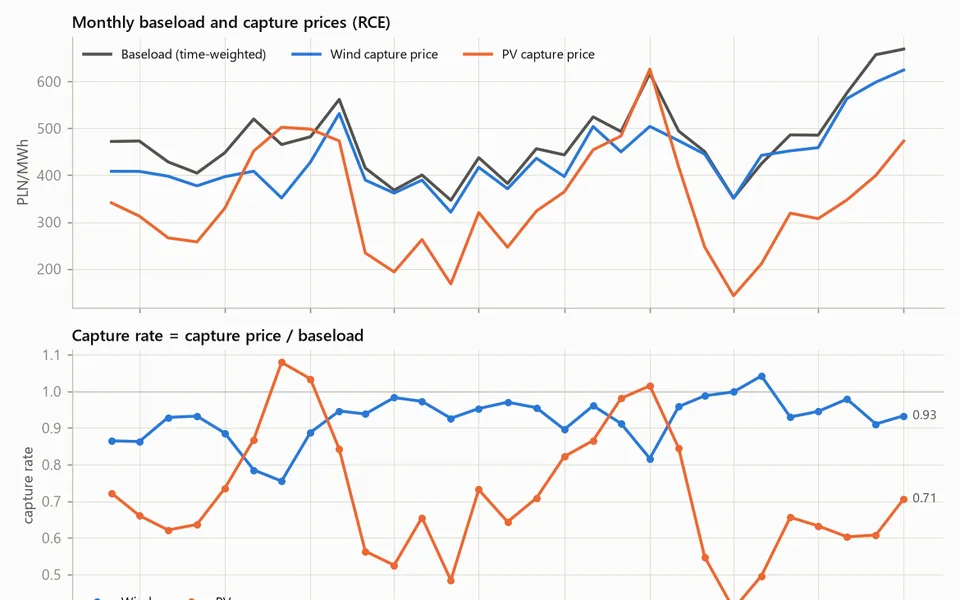
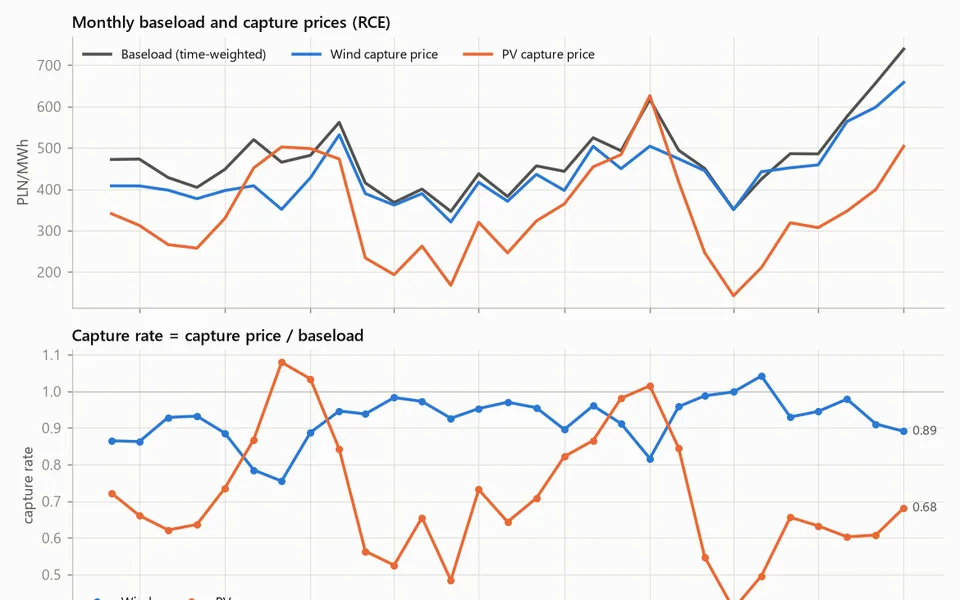
Add a corrections log; update four cards after the second review

diff --git a/corrections.html b/corrections.html
@@ -1,0 +1,143 @@
+<!doctype html>
+<html lang="en">
+<head>
+<meta charset="utf-8">
+<meta name="viewport" content="width=device-width, initial-scale=1">
+<title>Corrections | Konrad Waleszczyński</title>
+<meta name="description" content="Corrections to published results in this portfolio: what was claimed, what is claimed now and why.">
+<meta name="color-scheme" content="light dark">
+<style>
+:root {
+  --bg: #f6f7f9; --card: #ffffff; --text: #151a22; --muted: #5a6474; --line: #e2e6ec; --chip: #edf0f4;
+  --hl-bg: #fff8eb; --hl-line: #e8a33a; --pv: #c97a06; --wind: #0e7490; --storage: #6d43c9; --ops: #475569; --bio: #4d7c0f;
+  --accent: #0e7490; --shadow: 0 1px 2px rgba(16,24,40,.06), 0 4px 16px rgba(16,24,40,.06);
+}
+@media (prefers-color-scheme: dark) {
+  :root {
+    --bg: #0d1117; --card: #151b24; --text: #e6eaf0; --muted: #98a2b3; --line: #252e3a; --chip: #1d2530;
+    --hl-bg: #231d12; --hl-line: #d4912c; --pv: #f0a83a; --wind: #38bdd8; --storage: #a78bfa; --ops: #94a3b8; --bio: #9ccc65;
+    --accent: #38bdd8; --shadow: none;
+  }
+}
+* { box-sizing: border-box; }
+html { -webkit-text-size-adjust: 100%; }
+body { margin: 0; background: var(--bg); color: var(--text);
+  font: 16px/1.55 system-ui, -apple-system, "Segoe UI", Roboto, "Helvetica Neue", Arial, sans-serif; }
+a { color: inherit; }
+.wrap { max-width: 1180px; margin: 0 auto; padding: 0 20px; }
+header.hero { padding: 64px 0 32px; }
+.hero .name { font-size: 15px; letter-spacing: .08em; text-transform: uppercase; color: var(--muted); margin: 0 0 10px; }
+.hero h1 { font-size: clamp(30px, 5vw, 48px); line-height: 1.1; margin: 0 0 16px; letter-spacing: -.02em; }
+.hero h1 span { background: linear-gradient(90deg, var(--pv), var(--wind)); -webkit-background-clip: text;
+  background-clip: text; color: transparent; }
+.hero p.intro { max-width: 720px; font-size: 18px; color: var(--muted); margin: 0 0 24px; }
+.stats { display: flex; flex-wrap: wrap; gap: 12px 32px; margin: 0 0 28px; padding: 0; list-style: none; }
+.stats b { display: block; font-size: 28px; line-height: 1.1; }
+.stats span { font-size: 14px; color: var(--muted); }
+.actions { display: flex; flex-wrap: wrap; gap: 10px; }
+.btn { display: inline-block; padding: 7px 14px; border: 1px solid var(--line); border-radius: 8px; background: var(--card);
+  text-decoration: none; font-size: 14px; font-weight: 600; }
+.btn:hover { border-color: var(--accent); }
+.btn.primary { background: var(--accent); border-color: var(--accent); color: #fff; }
+@media (prefers-color-scheme: dark) { .btn.primary { color: #06141a; } }
+h2 { font-size: 22px; margin: 40px 0 16px; letter-spacing: -.01em; }
+.lives { display: grid; grid-template-columns: repeat(auto-fit, minmax(240px, 1fr)); gap: 14px; }
+.live { display: flex; gap: 12px; align-items: center; padding: 10px; background: var(--card); border: 1px solid var(--line);
+  border-radius: 12px; text-decoration: none; font-weight: 600; box-shadow: var(--shadow); }
+.live:hover { border-color: var(--accent); }
+.live img { width: 96px; aspect-ratio: 16/10; object-fit: cover; border-radius: 6px; border: 1px solid var(--line); }
+.filters { display: flex; flex-wrap: wrap; gap: 8px; margin: 0 0 18px; }
+.chip { font: inherit; font-size: 14px; padding: 6px 14px; border-radius: 999px; border: 1px solid var(--line);
+  background: var(--chip); color: var(--text); cursor: pointer; }
+.chip.active { background: var(--text); color: var(--bg); border-color: var(--text); }
+.grid { display: grid; grid-template-columns: repeat(auto-fill, minmax(330px, 1fr)); gap: 20px; }
+.card { display: flex; flex-direction: column; background: var(--card); border: 1px solid var(--line); border-radius: 14px;
+  overflow: hidden; box-shadow: var(--shadow); }
+.card[hidden] { display: none; }
+.thumb { display: block; border-bottom: 1px solid var(--line); background: #fff; }
+.thumb img { display: block; width: 100%; height: auto; aspect-ratio: 16/10; object-fit: cover; }
+.body { display: flex; flex-direction: column; flex: 1; padding: 16px 18px 18px; }
+.meta { display: flex; gap: 8px; align-items: center; font-size: 13px; margin-bottom: 6px; }
+.group { font-weight: 600; }
+.group::before { content: ""; display: inline-block; width: 8px; height: 8px; border-radius: 50%; margin-right: 6px;
+  background: currentColor; vertical-align: 1px; }
+.g-pv { color: var(--pv); } .g-wind { color: var(--wind); } .g-storage { color: var(--storage); } .g-ops { color: var(--ops); } .g-biogas { color: var(--bio); }
+.badge { font-size: 12px; font-weight: 600; padding: 1px 8px; border-radius: 999px; border: 1px solid var(--hl-line);
+  color: var(--hl-line); }
+.card h3 { font-size: 19px; line-height: 1.3; margin: 0 0 8px; }
+.card h3 a { text-decoration: none; }
+.card h3 a:hover { text-decoration: underline; }
+.summary { margin: 0 0 12px; color: var(--muted); font-size: 15px; }
+.highlight { margin: 0 0 14px; padding: 10px 12px; background: var(--hl-bg); border-left: 3px solid var(--hl-line);
+  border-radius: 0 8px 8px 0; font-size: 15px; }
+.tags { display: flex; flex-wrap: wrap; gap: 6px; list-style: none; padding: 0; margin: 0 0 16px; }
+.tags li { font-size: 12px; padding: 2px 8px; border-radius: 6px; background: var(--chip); color: var(--muted); }
+.links { display: flex; flex-wrap: wrap; gap: 8px; margin-top: auto; }
+footer { margin: 56px 0 0; padding: 28px 0 48px; border-top: 1px solid var(--line); color: var(--muted); font-size: 14px; }
+footer dl { display: grid; grid-template-columns: max-content 1fr; gap: 6px 16px; margin: 0 0 16px; }
+footer dt { font-weight: 600; color: var(--text); }
+footer dd { margin: 0; }
+.lead { max-width: 760px; color: var(--muted); margin: -4px 0 18px; }
+.pick .owner { margin: 0 0 16px; font-size: 15px; }
+.case { max-width: 800px; }
+.crumb { margin: 28px 0 0; font-size: 14px; }
+.crumb a { color: var(--muted); text-decoration: none; }
+.crumb a:hover { color: var(--accent); }
+.case header { padding: 28px 0 4px; }
+.kicker { display: flex; gap: 8px; align-items: center; font-size: 13px; margin: 0 0 10px; }
+.case h1 { font-size: clamp(28px, 4.4vw, 40px); line-height: 1.15; margin: 0 0 14px; letter-spacing: -.02em; }
+.dek { font-size: 18px; color: var(--muted); margin: 0 0 24px; }
+.kpis { display: grid; grid-template-columns: repeat(auto-fit, minmax(200px, 1fr)); gap: 12px; list-style: none;
+  padding: 0; margin: 0 0 28px; }
+.kpis li { padding: 14px 16px; background: var(--card); border: 1px solid var(--line); border-radius: 12px; box-shadow: var(--shadow); }
+.kpis b { display: block; font-size: 24px; line-height: 1.2; margin-bottom: 4px; }
+.kpis span { font-size: 14px; color: var(--muted); }
+figure { margin: 0; }
+figure img { display: block; width: 100%; height: auto; border: 1px solid var(--line); border-radius: 10px; background: #fff; }
+figcaption { margin-top: 8px; font-size: 14px; color: var(--muted); }
+.case h2 { font-size: 21px; margin: 36px 0 12px; }
+.case section ul { margin: 0; padding-left: 20px; }
+.case section li { margin: 0 0 10px; }
+.case section > p { margin: 0 0 12px; }
+.tablewrap { overflow-x: auto; margin: 18px 0 0; }
+table { width: 100%; border-collapse: collapse; font-size: 14.5px; background: var(--card); }
+caption { text-align: left; font-weight: 600; padding: 0 0 8px; }
+th, td { padding: 8px 10px; border-bottom: 1px solid var(--line); text-align: left; vertical-align: top; }
+th { color: var(--muted); font-weight: 600; }
+td + td, th + th { text-align: right; }
+td + td { white-space: nowrap; }
+.note { margin: 8px 0 0; font-size: 14px; color: var(--muted); }
+.case .links { margin: 0 0 16px; }
+@media (max-width: 560px) {
+  .wrap { padding: 0 16px; }
+  header.hero { padding-top: 40px; }
+  .grid { grid-template-columns: 1fr; }
+  footer dl { grid-template-columns: 1fr; }
+  footer dd { margin-bottom: 8px; }
+}
+
+.corr { border-top: 1px solid var(--line); padding: 6px 0 2px; }
+.corr h2 { font-size: 18px; margin: 14px 0 6px; display: flex; flex-wrap: wrap; gap: 4px 12px; align-items: baseline; }
+.corr h2 a { color: inherit; text-decoration: none; }
+.corr h2 a:hover { color: var(--accent); }
+.corr .when { font-size: 13px; font-weight: 400; color: var(--muted); }
+.corr dl { display: grid; grid-template-columns: 52px 1fr; gap: 6px 12px; margin: 0 0 14px; }
+.corr dt { color: var(--muted); font-size: 13px; padding-top: 3px; }
+.corr dd { margin: 0; }
+@media (max-width: 520px) { .corr dl { grid-template-columns: 1fr; gap: 0; } .corr dd { margin: 0 0 8px; } }
+</style>
+</head>
+<body>
+<div class="wrap case">
+  <p class="crumb"><a href="./">&#8592; Konrad Waleszczyński: all projects</a></p>
+  <header>
+    <h1>Corrections</h1>
+    <p class="dek">Every project here is re-read from time to time by an independent reviewer who gets the code and the data, not the conclusions. When a headline number or a conclusion does not hold, it is corrected in the repository and listed below: what was claimed, what is claimed now and why. Results that only reproduced are not listed.</p>
+  </header>
+  <section class="corr"><h2><a href="https://github.com/kwwaleszczynski-del/wind-om-reliability">wind-om-reliability</a><span class="when">15 Nov 2026</span></h2><dl><dt>Was</dt><dd>Crow-AMSAA separates an improving fleet (Kelmarsh, beta 0.82) from a deteriorating one (Penmanshiel, beta 1.12); Hill of Towie improves to 4-5 failures per turbine-year.</dd><dt>Now</dt><dd>Kelmarsh still improves (beta 0.81, 0.76-0.91). Penmanshiel shows no clear trend (0.95, 0.89-1.01). The Hill of Towie trend is not assessed.</dd><dt>Why</dt><dd>The Penmanshiel figure came from repeating alarms on three turbines and an interval that assumed independent events; the trend is now fitted on repeat chains with a turbine bootstrap. The Hill of Towie code dictionary was built from one year, so other years were not comparable. Failure counts are now published with their sensitivity to the counting rule (Kelmarsh 3.6-8.2, Penmanshiel 10.8-19.3 per turbine-year).</dd></dl></section><section class="corr"><h2><a href="https://github.com/kwwaleszczynski-del/pl-bess-paper-trading">pl-bess-paper-trading</a><span class="when">15 Nov 2026</span></h2><dl><dt>Was</dt><dd>A battery that trades on paper every day; scheduled runs start 30-60 minutes late and one day has no plan.</dd><dt>Now</dt><dd>Of the first 20 live days 6 have a plan and 14 do not; the model earned 11.7 % of perfect foresight over all days and 52 % on the days it traded. The live record is too short for conclusions.</dd><dt>Why</dt><dd>GitHub started the scheduled runs 6-10 hours late, after the market gate, so most mornings made no plan; the plans that exist were started by an external trigger. The ledger itself was checked and is append-only: no plan was made after prices were known.</dd></dl></section><section class="corr"><h2><a href="https://github.com/kwwaleszczynski-del/pl-capture-price">pl-capture-price</a><span class="when">15 Nov 2026</span></h2><dl><dt>Was</dt><dd>Every 10 pp of PV share costs PV about 0.20 of value factor; a PV build-out scenario of 0.58 (+20 %) and 0.49 (+50 %), backed by a hindcast.</dd><dt>Now</dt><dd>The within-month slope is -1.69 with a standard error of 1.12, not significant; the scenario gives 0.59 (0.52-0.66) and 0.51 (0.35-0.68). No simple model beats repeating last year&#x27;s value (MAE 0.080 against 0.081). RCE is described as PSE&#x27;s reference price, not the SDAC price.</dd><dt>Why</dt><dd>The pooled slope was mostly seasonal, and the hindcast had been fitted with months after the target. The 2025 capture rates (PV 0.64, wind 0.94) did not change.</dd></dl></section><section class="corr"><h2><a href="https://github.com/kwwaleszczynski-del/pl-res-curtailment">pl-res-curtailment</a><span class="when">15 Nov 2026</span></h2><dl><dt>Was</dt><dd>Announced PV curtailment before the reports API: 520 GWh, covering 91 % of the regulator&#x27;s figure for 2024.</dd><dt>Now</dt><dd>517.3 GWh, equal to 90 % of the regulator&#x27;s figure; the announcement volumes are stated as announced orders, 63 % of them published before the hour began.</dd><dt>Why</dt><dd>24 September 2024 was counted in both sources, and ordered power is not a subset of the energy the regulator reports. Annual totals from the reports API did not change.</dd></dl></section><section class="corr"><h2><a href="https://github.com/kwwaleszczynski-del/pse-opendata">pse-opendata</a><span class="when">15 Nov 2026</span></h2><dl><dt>Was</dt><dd>Cross-border flow report documented as one signed row per border.</dd><dt>Now</dt><dd>Two directional rows per border (import and export components), with a helper that nets them; an optional check re-downloads a cached month that PSE republished later (version 0.2.1).</dd><dt>Why</dt><dd>Reading one row as the net flow gave +85 MW instead of -613 MW for the Czech border in one test week. A month cached before a late republication was served as final.</dd></dl></section><section class="corr"><h2><a href="https://github.com/kwwaleszczynski-del/res-asset-kpi">res-asset-kpi</a><span class="when">12 Nov 2026</span></h2><dl><dt>Was</dt><dd>KPI functions accepted records with gaps and returned a number.</dd><dt>Now</dt><dd>A window with missing meter data has no round-trip efficiency instead of a low one, missing expected power gives no energy availability instead of zero loss, partial sums are not reported as full intervals, and constants standing in for missing information raise a warning (versions 0.1.1 and 0.1.2).</dd><dt>Why</dt><dd>Missing data were silently counted as zeros: one missing discharge hour moved a daily RTE from 0.64 to 0.48 with the result still marked valid.</dd></dl></section><section class="corr"><h2><a href="https://github.com/kwwaleszczynski-del/wind-downtime-availability">wind-downtime-availability</a><span class="when">12 Nov 2026</span></h2><dl><dt>Was</dt><dd>The category a stop is booked under moves warranty availability more than detecting the stop does: 97.9 % becomes 93.5 %.</dd><dt>Now</dt><dd>One mis-booked farm-wide stop can outweigh all detection error: 4.1 of those 4.4 pp are a single 15-day park-controller stop. Without it the scenario costs 0.3 pp, about the size of the detection error.</dd><dt>Why</dt><dd>The headline rested on one event of one farm-year. Cause classification is also reported by stop time now (rules right for 21 % and 68 %), and at one farm it makes availability worse than no classification.</dd></dl></section><section class="corr"><h2><a href="https://github.com/kwwaleszczynski-del/bess-ops-warranty">bess-ops-warranty</a><span class="when">12 Nov 2026</span></h2><dl><dt>Was</dt><dd>Batteries are technically available (95.8 %) but commercially much less is offered (78.1 %).</dd><dt>Now</dt><dd>For the median battery only 3.2 % of the registered power is declared and not offered; five of 38 batteries hold back a third or more. The 95.8 % is an upper bound (capability within 24 hours&#x27; notice).</dd><dt>Why</dt><dd>The gap counted every interval in which an empty battery offered less; with more than 10 % of the energy stored, offered availability is 94.1 %.</dd></dl></section><section class="corr"><h2><a href="https://github.com/kwwaleszczynski-del/pl-forecast-bench">pl-forecast-bench</a><span class="when">12 Nov 2026</span></h2><dl><dt>Was</dt><dd>Intraday models beat the PSE plan by 20-26 %.</dd><dt>Now</dt><dd>Intraday models beat PSE&#x27;s day-ahead plan by 10-26 %, and by 10-21 % against the plan rescaled for its bias; day-ahead intervals are wider than published.</dd><dt>Why</dt><dd>Part of the plan&#x27;s error is curtailment and a systematic over-forecast (wind +225 MW on average, +1,300 MW at prices at or below zero), and the bootstrap had treated days as independent.</dd></dl></section><section class="corr"><h2><a href="https://github.com/kwwaleszczynski-del/wind-les-gpu">wind-les-gpu</a><span class="when">12 Nov 2026</span></h2><dl><dt>Was</dt><dd>The LES reproduces the measured farm wake loss (9.8 % against 9.2 %) and the deep-wake sectors, with the lowest error of four models.</dd><dt>Now</dt><dd>The pooled loss matches as closely as the Gaussian model; split by wind speed and turbulence, part of the match is averaging (3 pp low in the most frequent sector at 5-8 m/s, high at 8-10 m/s). The ranking claim is dropped.</dd><dt>Why</dt><dd>One speed ratio was applied to all 5-10 m/s records, and the 0.6 pp gap sits inside the uncertainty of how the measured loss is defined.</dd></dl></section><section class="corr"><h2><a href="https://github.com/kwwaleszczynski-del/pv-budget-bridge">pv-budget-bridge</a><span class="when">12 Nov 2026</span></h2><dl><dt>Was</dt><dd>Outage and curtailment losses come back within 0.5 % of a known truth; PR 0.63-0.67 on the real rooftops.</dd><dt>Now</dt><dd>A 3-day outage injected into real and synthetic plants comes back within 1 %, a curtailment that binds within 3-7 %; the 0.5 % on the synthetic plant is labelled a best case. PR 0.65-0.68 on intervals with complete data.</dd><dt>Why</dt><dd>The synthetic truth followed the estimator&#x27;s own bookkeeping, an outage under a partial set-point was over-charged to availability, and the summary PR counted data gaps as zero production.</dd></dl></section><section class="corr"><h2><a href="https://github.com/kwwaleszczynski-del/scada-fault-bench">scada-fault-bench</a><span class="when">12 Nov 2026</span></h2><dl><dt>Was</dt><dd>Best F1 0.40 on wind and 0.53 on PV; recall 0.08-0.75 on 12 real faults.</dd><dt>Now</dt><dd>Every method detects more than chance on injected faults, but much of the raw recall is coincidence (a z-score reaches 0.91 on wind with 0.68 by chance). Best excess recall 0.42 on wind and 0.37 on PV; on the 12 real faults no method is distinguishable from chance.</dd><dt>Why</dt><dd>An alarm anywhere in a one-to-three-week window counted as a detection. Detection now requires an alarm on affected rows and is reported next to a placebo.</dd></dl></section><section class="corr"><h2><a href="https://github.com/kwwaleszczynski-del/bess-reporting-kit">bess-reporting-kit</a><span class="when">12 Nov 2026</span></h2><dl><dt>Was</dt><dd>A 200 MW battery earned 122 % of its as-of benchmark; at fleet scale the revenue stack stays above day-ahead arbitrage.</dd><dt>Now</dt><dd>The battery earned 99 % of a benchmark that has its own limits; at 2,000 MW the stack keeps 10-21 % of the lone battery&#x27;s margin and crosses day-ahead arbitrage on the lower bound.</dd><dt>Why</dt><dd>The benchmark battery was smaller than the real one, and the fleet model was not a fixed point, so it is now given as two bounds.</dd></dl></section><section class="corr"><h2><a href="https://github.com/kwwaleszczynski-del/scada-schema">scada-schema</a><span class="when">12 Nov 2026</span></h2><dl><dt>Was</dt><dd>Loaders wrote the CARE benchmark&#x27;s power in kW and found the PVDAQ unit switch only when it fell inside the loaded period.</dd><dt>Now</dt><dd>CARE power is stored as a scaled, dimensionless signal; the PVDAQ unit is detected from the power level; La Haute Borne&#x27;s clock is reconstructed and 96 ambiguous rows are dropped (version 0.1.1).</dd><dt>Why</dt><dd>CARE power is normalised by the source, and a file that starts after the switch was read 100 times too high.</dd></dl></section>
+  <footer>
+    <p>14 corrections. Updated 16 Nov 2026.</p>
+  </footer>
+</div>
+</body>
+</html>

diff --git a/index.html b/index.html
@@ -239,7 +239,7 @@ td + td { white-space: nowrap; }
         <div class="meta"><span class="group g-storage">Storage &amp; markets</span></div>
         <h3><a href="https://github.com/kwwaleszczynski-del/pl-capture-price">How solar eats its own price in Poland</a></h3>
         <p class="summary">Capture prices and value factors of PV and wind from 15-minute PSE data since June 2024, negative prices, the Polish duck curve and a PV build-out scenario with a hindcast.</p>
-        <p class="highlight">In 2025 PV captured 64 % of the average price and wind 94 %; every 10 pp of PV share costs PV about 0.20 of value factor.</p>
+        <p class="highlight">In 2025 PV captured 64 % of the average RCE price and wind 94 %, with RCE at or below zero in 356 hours; build-out scenarios for +20 % and +50 % PV give a direction with a wide interval (0.59, 0.52-0.66 and 0.51, 0.35-0.68), and the hindcast shows that no simple model beats repeating last year&#x27;s value.</p>
         <ul class="tags"><li>PSE API</li><li>capture rate</li><li>GitHub Actions</li></ul>
         <div class="links"><a class="btn" href="https://github.com/kwwaleszczynski-del/pl-capture-price">Code</a><a class="btn primary" href="https://kwwaleszczynski-del.github.io/pl-capture-price/">Live page &#8599;</a></div>
       </div>
@@ -264,8 +264,8 @@ td + td { white-space: nowrap; }
       <div class="body">
         <div class="meta"><span class="group g-storage">Storage &amp; markets</span></div>
         <h3><a href="https://github.com/kwwaleszczynski-del/pl-bess-paper-trading">Battery paper trading, live track record</a></h3>
-        <p class="summary">Every morning before the day-ahead gate closure a forecast of tomorrow&#x27;s prices and an optimal 1 MW / 2 MWh battery plan; the next day it is settled on real prices and appended to a ledger that is never recomputed.</p>
-        <p class="highlight">Backtest since June 2024: forecast + MILP earns 83 % of perfect foresight (324 k PLN/MW/yr), but a plain 7-day price average does as well; live record from 28 Oct 2026.</p>
+        <p class="summary">Before the day-ahead gate closure a forecast of tomorrow&#x27;s prices and an optimal 1 MW / 2 MWh battery plan; the next day it is settled on real prices and appended to a ledger that is never recomputed. Mornings without a run before the gate are recorded as days without a plan.</p>
+        <p class="highlight">Backtest since June 2024: forecast + MILP earns 83 % of perfect foresight (80 % in August-October 2026), but a plain 7-day price average does as well; the live record from 28 Oct 2026 has a plan on 6 of its first 20 days, because GitHub&#x27;s schedule runs hours late, and is too short for conclusions.</p>
         <ul class="tags"><li>quantile forecast</li><li>MILP</li><li>GitHub Actions</li></ul>
         <div class="links"><a class="btn" href="https://github.com/kwwaleszczynski-del/pl-bess-paper-trading">Code</a><a class="btn primary" href="https://kwwaleszczynski-del.github.io/pl-bess-paper-trading/">Live page &#8599;</a></div>
       </div>
@@ -525,7 +525,7 @@ td + td { white-space: nowrap; }
         <div class="meta"><span class="group g-wind">Wind</span><span class="badge">Own method</span></div>
         <h3><a href="https://github.com/kwwaleszczynski-del/wind-om-reliability">Wind turbine O&amp;M reliability from status and alarm logs</a></h3>
         <p class="summary">Turns status and alarm logs from Kelmarsh, Penmanshiel and Hill of Towie (352 turbine-years) into first-up Pareto downtime, MTBF/MTTR, Weibull and Crow-AMSAA reliability trends, bad-actor turbines, 7-day repeat bursts, alarm cascades and SCADA cross-checks.</p>
-        <p class="highlight">7 of 69 codes cause 80 % of Kelmarsh stop hours; 43 % of Penmanshiel failures repeat the same code within 7 days of restart (3.5 % by chance), and Crow-AMSAA separates improving fleets (Kelmarsh beta 0.82) from deteriorating ones (Penmanshiel beta 1.12).</p>
+        <p class="highlight">7 of 69 codes cause 80 % of Kelmarsh stop hours; on repeat chains with a turbine bootstrap Kelmarsh improves (Crow-AMSAA beta 0.81, 0.76-0.91) while Penmanshiel&#x27;s apparent decline is three turbines&#x27; repeating alarms (0.95, 0.89-1.01); every failure count is published with its sensitivity to the counting rule (Kelmarsh 3.6-8.2 per turbine-year).</p>
         <ul class="tags"><li>IEC 61400-26</li><li>Crow-AMSAA</li><li>alarm logs</li></ul>
         <div class="links"><a class="btn" href="https://github.com/kwwaleszczynski-del/wind-om-reliability">Code</a><a class="btn primary" href="https://kwwaleszczynski-del.github.io/wind-om-reliability/">Live page &#8599;</a></div>
       </div>
@@ -733,7 +733,7 @@ td + td { white-space: nowrap; }
         <div class="meta"><span class="group g-system">Power system &amp; resource</span></div>
         <h3><a href="https://github.com/kwwaleszczynski-del/pl-res-curtailment">PV and wind curtailed by the Polish TSO</a></h3>
         <p class="summary">Non-market redispatch of PV and wind by PSE from the reports API and parsed system announcements since late 2023: volumes, drivers, overlap with negative prices and the value of curtailed energy under the published compensation formula.</p>
-        <p class="highlight">1.8 TWh curtailed in 2026 to 25 Oct, 50 % more than a year earlier; 98 % for balancing reasons and most of it at positive prices.</p>
+        <p class="highlight">1,377 GWh curtailed in 2025 and 43 % more in 2026 to 25 October than in the same period a year earlier; 98 % for balancing reasons, 81 % of the energy when residual load is below 8 GW and 92 % during net exports.</p>
         <ul class="tags"><li>PSE API</li><li>redispatch</li><li>curtailment</li></ul>
         <div class="links"><a class="btn" href="https://github.com/kwwaleszczynski-del/pl-res-curtailment">Code</a><a class="btn primary" href="https://kwwaleszczynski-del.github.io/pl-res-curtailment/">Live page &#8599;</a></div>
       </div>
@@ -863,7 +863,7 @@ td + td { white-space: nowrap; }
       <dt>Stack</dt><dd>Python · pandas · SciPy / HiGHS MILP · pvlib · PyWake · PyTorch · NumPyro / JAX · Plotly · Grafana · InfluxDB 2 / Flux · GitHub Actions · pytest</dd>
       <dt>Open data</dt><dd>PSE (Polish TSO) open API · AEMO NEM · NREL PVDAQ · Kelmarsh wind farm SCADA (Cubico, CC BY 4.0) · PVGIS · Open-Meteo / ERA5 · Met Office sunshine records · Zenodo LFP cell ageing data · IMGW-PIB synoptic stations · CERRA (Copernicus) · IEEE RTS-79 · CARE to Compare benchmark (CC BY-SA 4.0) · FlyWire connectome v783 (CC BY 4.0)</dd>
     </dl>
-    <p>All projects are personal work on public datasets, credited in each repository. Updated 15 Nov 2026.</p>
+    <p>All projects are personal work on public datasets, credited in each repository. Results that did not hold up under review are listed in the <a href="corrections.html">corrections log</a>. Updated 16 Nov 2026.</p>
   </footer>
 </div>
 <script>

diff --git a/case-studies/bess-ops-warranty.html b/case-studies/bess-ops-warranty.html
@@ -169,7 +169,7 @@ td + td { white-space: nowrap; }
 
   <footer>
     <p>Personal work on public data; the data sources are credited in the project's repository. Every number on
-    this page is taken from the repository's README and result files. Updated 15 Nov 2026.</p>
+    this page is taken from the repository's README and result files. Updated 16 Nov 2026.</p>
   </footer>
 </div>
 </body>

diff --git a/case-studies/pv-budget-bridge.html b/case-studies/pv-budget-bridge.html
@@ -169,7 +169,7 @@ td + td { white-space: nowrap; }
 
   <footer>
     <p>Personal work on public data; the data sources are credited in the project's repository. Every number on
-    this page is taken from the repository's README and result files. Updated 15 Nov 2026.</p>
+    this page is taken from the repository's README and result files. Updated 16 Nov 2026.</p>
   </footer>
 </div>
 </body>

diff --git a/case-studies/wind-downtime-availability.html b/case-studies/wind-downtime-availability.html
@@ -169,7 +169,7 @@ td + td { white-space: nowrap; }
 
   <footer>
     <p>Personal work on public data; the data sources are credited in the project's repository. Every number on
-    this page is taken from the repository's README and result files. Updated 15 Nov 2026.</p>
+    this page is taken from the repository's README and result files. Updated 16 Nov 2026.</p>
   </footer>
 </div>
 </body>

diff --git a/build.py b/build.py
@@ -318,7 +318,7 @@ def build_site(cfg: dict, start: dict) -> str:
       <dt>Stack</dt><dd>{e(' · '.join(cfg['stack']))}</dd>
       <dt>Open data</dt><dd>{e(' · '.join(cfg['data_sources']))}</dd>
     </dl>
-    <p>All projects are personal work on public datasets, credited in each repository. Updated {date.today():%d %b %Y}.</p>
+    <p>All projects are personal work on public datasets, credited in each repository. Results that did not hold up under review are listed in the <a href="corrections.html">corrections log</a>. Updated {date.today():%d %b %Y}.</p>
   </footer>
 </div>
 <script>
@@ -434,6 +434,60 @@ def build_case(c: dict, cfg: dict) -> str:
 """
 
 
+def build_corrections(cor: dict, cfg: dict) -> str:
+    """The corrections log, written to corrections.html from corrections.json (newest first)."""
+    owner = cfg["owner"]
+    user = owner["github"]
+    name = owner.get("name") or user
+    by_repo = {p["repo"]: p for p in cfg["projects"]}
+    rows = []
+    for c in sorted(cor["entries"], key=lambda c: c["date"], reverse=True):
+        p = by_repo[c["repo"]]
+        when = date.fromisoformat(c["date"])
+        rows.append(
+            f'<section class="corr"><h2><a href="https://github.com/{user}/{p["repo"]}">{e(p["repo"])}</a>'
+            f'<span class="when">{when:%d %b %Y}</span></h2>'
+            f'<dl><dt>Was</dt><dd>{rich(c["was"])}</dd><dt>Now</dt><dd>{rich(c["now"])}</dd>'
+            f'<dt>Why</dt><dd>{rich(c["why"])}</dd></dl></section>')
+    title = f"Corrections | {name}"
+    return f"""<!doctype html>
+<html lang="en">
+<head>
+<meta charset="utf-8">
+<meta name="viewport" content="width=device-width, initial-scale=1">
+<title>{e(title)}</title>
+<meta name="description" content="Corrections to published results in this portfolio: what was claimed, what is claimed now and why.">
+<meta name="color-scheme" content="light dark">
+<style>
+{CSS}
+.corr {{ border-top: 1px solid var(--line); padding: 6px 0 2px; }}
+.corr h2 {{ font-size: 18px; margin: 14px 0 6px; display: flex; flex-wrap: wrap; gap: 4px 12px; align-items: baseline; }}
+.corr h2 a {{ color: inherit; text-decoration: none; }}
+.corr h2 a:hover {{ color: var(--accent); }}
+.corr .when {{ font-size: 13px; font-weight: 400; color: var(--muted); }}
+.corr dl {{ display: grid; grid-template-columns: 52px 1fr; gap: 6px 12px; margin: 0 0 14px; }}
+.corr dt {{ color: var(--muted); font-size: 13px; padding-top: 3px; }}
+.corr dd {{ margin: 0; }}
+@media (max-width: 520px) {{ .corr dl {{ grid-template-columns: 1fr; gap: 0; }} .corr dd {{ margin: 0 0 8px; }} }}
+</style>
+</head>
+<body>
+<div class="wrap case">
+  <p class="crumb"><a href="./">&#8592; {e(name)}: all projects</a></p>
+  <header>
+    <h1>Corrections</h1>
+    <p class="dek">{rich(cor["intro"])}</p>
+  </header>
+  {"".join(rows)}
+  <footer>
+    <p>{len(cor["entries"])} corrections. Updated {date.today():%d %b %Y}.</p>
+  </footer>
+</div>
+</body>
+</html>
+"""
+
+
 def build_profile(cfg: dict, start: dict) -> str:
     owner, projects = cfg["owner"], cfg["projects"]
     user = owner["github"]
@@ -505,6 +559,11 @@ def main() -> None:
     for c in start["case_studies"]:
         (HERE / "case-studies" / f"{c['repo']}.html").write_text(build_case(c, cfg), encoding="utf-8")
         log.info("wrote case-studies/%s.html", c["repo"])
+    cor_path = HERE / "corrections.json"
+    if cor_path.exists():
+        cor = json.loads(cor_path.read_text(encoding="utf-8"))
+        (HERE / "corrections.html").write_text(build_corrections(cor, cfg), encoding="utf-8")
+        log.info("wrote corrections.html (%d entries)", len(cor["entries"]))
     args.profile_readme.parent.mkdir(parents=True, exist_ok=True)
     args.profile_readme.write_text(build_profile(cfg, start), encoding="utf-8")
     log.info("wrote %s", args.profile_readme)
